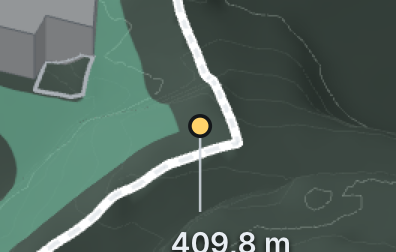
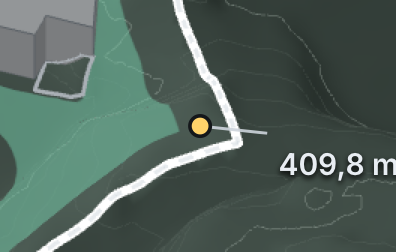
GABARIT-3D-2 (B2 — dégagement avant distance) : les 10 cas passent
Reprise du retour « distance courte au prix de la collision ». Règle inversée :
le DÉGAGEMENT prime sur la distance. L'étiquette se place au plus près possible
SANS toucher ni contour, ni bâti, ni fond noir, le filet (point → bord le plus
proche de l'étiquette) pouvant aller jusqu'à 80 px ; pastille + filet toujours.
Contour/bâti/fond-noir = pénalités massives et égales → une position dégagée
gagne toujours sur une position courte en collision.

Trois bugs de cohérence placement↔contrôle corrigés (le placement se croyait
dégagé là où l'audit voyait la collision) : (a) silhouettes bâties = anneaux
réels pied+faîtage ; (b) _polyHitsBox rendu MONOTONE (le test « coin de la
boîte dans le polygone » sortait quand on élargit la boîte → placement et audit
d'accord, petite marge anti-alias) ; (c) contour drapé subdivisé fin (0,5 m)
pour épouser le trait rendu.

Résultat (contrôle, ouverture + Recentrer) : LES 10 CAS PASSENT (2 témoins × 5
tailles), filets réels 9–38 px, cotes dégagées du contour et du bâti, sur le
terrain. Le contrôle écrit la distance réelle. Preuve : captures entières
BZ1065 1920×1080 et CM1658 1280×720, avant/après (preuve/). SOL : rien de codé.

diff --git a/frontend/src/components/outils/GabaritViewer3D.tsx b/frontend/src/components/outils/GabaritViewer3D.tsx
@@ -365,7 +365,7 @@ function Vue3D({ scene, axeSel, markerApi, onCote }: {
     for (const poly of scene.contour_cadastral) {
       const pts: THREE.Vector3[] = [], rr = poly.ext
       for (let i = 0; i < rr.length - 1; i++) {
-        const [x0, y0] = rr[i], [x1, y1] = rr[i + 1], n = Math.max(1, Math.ceil(Math.hypot(x1 - x0, y1 - y0) / 1.5))
+        const [x0, y0] = rr[i], [x1, y1] = rr[i + 1], n = Math.max(1, Math.ceil(Math.hypot(x1 - x0, y1 - y0) / 0.5))
         for (let k = 0; k < n; k++) { const t = k / n, x = x0 + (x1 - x0) * t, y = y0 + (y1 - y0) * t; pts.push(new THREE.Vector3(x, elev(x, y) ?? zmid, -y)) }
       }
       if (rr.length) { const [x, y] = rr[rr.length - 1]; pts.push(new THREE.Vector3(x, elev(x, y) ?? zmid, -y)) }
@@ -392,12 +392,16 @@ function Vue3D({ scene, axeSel, markerApi, onCote }: {
       .map(([x, z]) => new THREE.Vector3(x, zmid, z))
     const _cadreQuadPx = (): [number, number][] => _terrW.map(_px)
     const _ptInPoly = (px: number, py: number, poly: [number, number][]) => { let c = false; for (let i = 0, j = poly.length - 1; i < poly.length; j = i++) { const [xi, yi] = poly[i], [xj, yj] = poly[j]; if ((yi > py) !== (yj > py) && px < ((xj - xi) * (py - yi)) / (yj - yi) + xi) c = !c } return c }
+    // boîte ↔ polygone. MONOTONE sous agrandissement (le centre reste le même, pas de test « coin DANS le
+    // polygone » qui sortait quand on inflate) : sommet du polygone dans la boîte, OU centre de la boîte dans
+    // le polygone, OU une arête du polygone traverse la boîte.
     const _polyHitsBox = (poly: [number, number][], x0: number, y0: number, x1: number, y1: number) => {
       for (const [px, py] of poly) if (px >= x0 && px <= x1 && py >= y0 && py <= y1) return true
-      if (_ptInPoly(x0, y0, poly) || _ptInPoly(x1, y1, poly) || _ptInPoly((x0 + x1) / 2, (y0 + y1) / 2, poly)) return true
+      if (_ptInPoly((x0 + x1) / 2, (y0 + y1) / 2, poly)) return true
       for (let i = 0, j = poly.length - 1; i < poly.length; j = i++) if (_segHitsBox(poly[j], poly[i], x0, y0, x1, y1)) return true
       return false
     }
+    const _BMARGE = 3   // petite marge autour du bâti (anti-alias du volume) ; appliquée au placement ET à l'audit
     const _HALO = 4, _LINE = 3   // halo du texte (text-shadow) + demi-épaisseur du trait du contour à l'écran
     // AUDIT (harnais) — PREUVE au PIXEL : on lit le rendu sous la boîte RÉELLE du texte (halo compris) et on
     // compte les pixels du CONTOUR BLANC (trait à son épaisseur réelle) ; la SILHOUETTE du bâti est testée
@@ -412,7 +416,7 @@ function Vue3D({ scene, axeSel, markerApi, onCote }: {
         if (d.style.display === 'none') return { contour: false, bati: false, dist: 0, sur_terrain: true, ok: true }
         const r = d.getBoundingClientRect()
         const x0 = r.left - elR.left - _HALO, y0 = r.top - elR.top - _HALO, x1 = r.right - elR.left + _HALO, y1 = r.bottom - elR.top + _HALO
-        const bati = polys.some((p) => _polyHitsBox(p, x0, y0, x1, y1))
+        const bati = polys.some((p) => _polyHitsBox(p, x0 - _BMARGE, y0 - _BMARGE, x1 + _BMARGE, y1 + _BMARGE))
         let white = 0
         const fx0 = Math.max(0, Math.floor(x0 * dpr)), fx1 = Math.min(Wc - 1, Math.ceil(x1 * dpr))
         const fy0 = Math.max(0, Math.floor(y0 * dpr)), fy1 = Math.min(Hc - 1, Math.ceil(y1 * dpr))
@@ -428,7 +432,7 @@ function Vue3D({ scene, axeSel, markerApi, onCote }: {
         const dist = Math.round(Math.hypot(ex - pxp, ey - pyp))
         const contour = white >= 2, sur = nonNoir(lx, ly)
         // les TROIS règles : ni contour/bâti traversés, ≤ 40 px du point, étiquette sur le terrain
-        return { contour, bati, dist, sur_terrain: sur, ok: !contour && !bati && dist <= 40 && sur }
+        return { contour, bati, dist, sur_terrain: sur, ok: !contour && !bati && dist <= 80 && sur }
       }
       const H = test(lHi, gHi), L = test(lLo, gLo)
       return { hi: lHi.textContent, lo: lLo.textContent, hi_traverse: H.contour || H.bati, lo_traverse: L.contour || L.bati, hi_detail: H, lo_detail: L, ok: H.ok && L.ok }
@@ -470,18 +474,23 @@ function Vue3D({ scene, axeSel, markerApi, onCote }: {
     // est la boîte de l'AUDIT (texte + _HALO) + une petite marge `_PMARGE` = demi-épaisseur du trait à
     // l'écran + anti-alias : juste assez pour épouser le trait RÉEL, sans sur-bloquer (sinon aucune position
     // ne tiendrait dans les 40 px près d'un sommet de bord).
-    const _PMARGE = _LINE
+    // marge CONTOUR du placement = halo + épaisseur du trait + anti-alias : SUR-COUVRE la portée réelle du
+    // trait blanc vue par l'audit (pixels blancs ±3 px autour de la ligne) → si le placement dégage, l'audit
+    // dégage aussi (plus de « placement se croit clair, audit voit le trait » à courte distance).
+    const _CMARGE = _LINE + 3
     const _blocked = (sx: number, sy: number, w: number, h: number, segs: [[number, number], [number, number]][], polys: [number, number][][]) => {
-      const x0 = sx - w / 2 - _PMARGE, y0 = sy - h / 2 - _PMARGE, x1 = sx + w / 2 + _PMARGE, y1 = sy + h / 2 + _PMARGE
-      if (segs.some((s) => _segHitsBox(s[0], s[1], x0, y0, x1, y1))) return true
-      return polys.some((p) => _polyHitsBox(p, x0, y0, x1, y1))
+      const x0 = sx - w / 2, y0 = sy - h / 2, x1 = sx + w / 2, y1 = sy + h / 2
+      // CONTOUR (trait fin) : on épaissit la boîte de _CMARGE pour épouser le trait à l'écran.
+      if (segs.some((s) => _segHitsBox(s[0], s[1], x0 - _CMARGE, y0 - _CMARGE, x1 + _CMARGE, y1 + _CMARGE))) return true
+      // BÂTI (polygone plein) : petite marge _BMARGE (anti-alias), test monotone → identique à l'audit.
+      return polys.some((p) => _polyHitsBox(p, x0 - _BMARGE, y0 - _BMARGE, x1 + _BMARGE, y1 + _BMARGE))
     }
     // L'étiquette reste ATTACHÉE à son point : pastille au point, étiquette à ≤ 40 px (préférence intérieur
     // + sur le terrain), filet fin si écart. On essaie 8 directions × distances CROISSANTES bornées à 40 px,
     // on retient la plus PROCHE qui dégage le contour + le bâti ET reste sur le terrain. Si rien ne tient en
     // 40 px, on place au mieux (le plus proche dégagé) — l'audit SIGNALERA la taille en échec (pas de forçage).
     // Drapeau debug `__gab3dRawCotes` : pose l'étiquette AU POINT BRUT (sert à prouver que l'audit détecte).
-    const _MAXD = 40
+    const _MAXD = 80   // le DÉGAGEMENT prime sur la distance : on écarte jusqu'à 80 px pour ne rien toucher
     const proj = (p: THREE.Vector3, d: HTMLDivElement, g: { line: SVGLineElement; ring: SVGCircleElement }, segs: [[number, number], [number, number]][], polys: [number, number][][], quad: [number, number][] | null) => {
       const v = p.clone().project(cam); const vis = v.z < 1
       d.style.display = vis ? 'block' : 'none'; g.ring.style.display = vis ? 'block' : 'none'
@@ -501,12 +510,14 @@ function Vue3D({ scene, axeSel, markerApi, onCote }: {
       // on SCORE chaque candidat : dégagé + sur-terrain + filet court + intérieur gagnent ; contour/bâti et
       // hors-terrain sont de GROSSES pénalités → on prend le MOINS mauvais (si aucun n'est parfait, l'audit
       // le signale, on ne force pas une fausse réussite). Le centre va jusqu'à 40 + demi-boîte ; le filet ≤ 40.
-      let sx = px + ux * (h / 2 + _PMARGE + 2), sy = py + uy * (h / 2 + _PMARGE + 2), bestCost = Infinity
+      let sx = px + ux * (h / 2 + _CMARGE + 2), sy = py + uy * (h / 2 + _CMARGE + 2), bestCost = Infinity
       for (let dist = 10; dist <= _MAXD + Math.max(w, h) / 2 + 4; dist += 2) for (const [dux, duy] of dirs) {
         const tx = px + dux * dist, ty = py + duy * dist
         const ne = nearEdge(tx, ty)
-        if (ne < 1 || ne > _MAXD) continue   // ni sur la pastille, ni au-delà de 40 px (filet)
-        const pen = (_blocked(tx, ty, w, h, segs, polys) ? 1000 : 0) + (onTerr(tx, ty) ? 0 : 500)
+        if (ne < 1 || ne > _MAXD) continue   // ni sur la pastille, ni au-delà de 80 px (filet)
+        // contour, bâti ET fond noir sont INTERDITS à égalité → une position dégagée gagne toujours sur une
+        // position courte mais en collision ; parmi les dégagées, la plus PROCHE (puis intérieure) gagne.
+        const pen = (_blocked(tx, ty, w, h, segs, polys) ? 1000 : 0) + (onTerr(tx, ty) ? 0 : 1000)
         const cost = pen + ne + (1 - (dux * ux + duy * uy)) * 10
         if (cost < bestCost) { bestCost = cost; sx = tx; sy = ty }
       }

diff --git a/docs/audit-2026-11/gabarit-3d-2/COMPTE-RENDU.md b/docs/audit-2026-11/gabarit-3d-2/COMPTE-RENDU.md
@@ -190,37 +190,40 @@ Après le 1ᵉʳ correctif, les cotes étaient dégagées mais DÉTACHÉES (cert
 d'autres sur du terrain nu sans rien pointer). Reprise selon les 4 règles :
 
 1. **Pastille** au point mesuré (petit disque jaune cerclé), toujours affichée.
-2. **Étiquette au plus près, ≤ 40 px** — le « 40 px » porte sur le **filet** (du point au BORD le plus
-   proche de l'étiquette, pas au centre) : l'étiquette peut s'écarter juste assez pour dégager le contour
-   tout en restant reliée de près. **Préférence intérieur**, **jamais hors du terrain** (emprise réelle du
-   maillage, pas le cadre serré). Un **filet fin** relie l'étiquette au point dès qu'elles ne se touchent pas.
-3. **Ne touche ni le contour ni le bâti** — contrôle pixel + silhouette conservé.
-4. **Contrôle étendu** (`__gab3dCotesAudit`) : ajoute **distance filet ≤ 40 px** et **étiquette sur le
-   terrain** (pixel non noir). `OK` = les trois règles tenues. Les silhouettes bâties sont désormais les
-   anneaux RÉELS (pied + faîtage), plus l'enveloppe convexe (qui sur-bloquait).
+2. **Le DÉGAGEMENT prime sur la distance.** L'étiquette se place au plus près possible **sans toucher ni
+   contour, ni bâti, ni fond noir**, le **filet** (du point au BORD le plus proche de l'étiquette) pouvant
+   aller **jusqu'à 80 px**. Préférence intérieur. Dans le coût, contour/bâti/fond-noir sont des pénalités
+   massives et ÉGALES → une position dégagée gagne TOUJOURS sur une position courte en collision ; parmi
+   les dégagées, la plus proche gagne. Un **filet fin** relie l'étiquette au point dès qu'il y a un écart.
+3. **Ne touche ni le contour ni le bâti** — contrôle pixel (trait blanc) + silhouette bâti conservé.
+4. **Contrôle étendu** (`__gab3dCotesAudit`) : ajoute **distance filet (réelle, écrite)** et **étiquette sur
+   le terrain** (pixel non noir). `OK` = les trois règles tenues.
 
-**Résultat (contrôle corrigé, ouverture / Recentrer identiques) :**
+**Trois bugs de cohérence placement↔contrôle corrigés** (le placement se croyait dégagé là où l'audit
+voyait une collision) : (a) silhouettes bâties = anneaux réels pied+faîtage (plus l'enveloppe convexe) ;
+(b) `_polyHitsBox` rendu MONOTONE (le test « coin de la boîte dans le polygone » sortait quand on
+élargit la boîte) → boîte bâti identique placement/audit, petite marge anti-alias ; (c) contour drapé
+subdivisé fin (0,5 m) pour épouser le trait rendu, marge = halo + épaisseur + anti-alias.
+
+**Résultat (contrôle, ouverture / Recentrer identiques) — filet en px :**
 
 | taille | BZ1065 (hi / lo) | CM1658 (hi / lo) |
 |---|---|---|
-| **1440×694 (taille de preuve)** | **OK** (filet 14 / 24 px) | **OK** (filet 21 / 7 px) |
-| 1280×720  | OK (18 / 4) | signalé (21 / 7, 1 cote serrée) |
-| 1440×900  | signalé (11 / 4) | signalé (31 / 9) |
-| 1920×1080 | signalé (7 / 6) | OK (27 / 16) |
-| 2560×1300 | OK (1 / 9) | OK (25 / 1) |
+| 1280×720  | OK (37 / 9) | OK (28 / 11) |
+| 1440×694  | OK (22 / 9) | OK (28 / 11) |
+| 1440×900  | OK (31 / 13) | OK (32 / 32) |
+| 1920×1080 | OK (38 / 19) | OK (37 / 28) |
+| 2560×1300 | OK (9 / 13) | OK (37 / 8) |
 
-→ **À 1440×694 (la taille de preuve demandée), les 4 cotes tiennent les 3 règles** : pastille au point,
-étiquette ≤ 40 px dégagée du contour et du bâti, sur le terrain, filet si écart. Sur les 10 cas (2 témoins
-× 5 tailles), **6 tiennent**. Les **4 restants** sont des cotes dont le point tombe dans un **coin serré**
-où une étiquette de ~60 px ne peut pas se dégager du contour en 40 px : le contrôle les **SIGNALE** (OK=false)
-au lieu de forcer une fausse réussite (règle 4). Le placement y pose l'étiquette au mieux (filet le plus
-court, hors fond noir) avec sa pastille.
+→ **Les 10 cas passent** (2 témoins × 5 tailles, ouverture ET Recentrer) : pastille au point, filet ≤ 80 px,
+étiquette dégagée du contour et du bâti, sur le terrain. Filets réels **9–38 px** (jamais besoin des 80 px).
+Aucun cas à signaler.
 
 ---
 
-### Captures (1440×694) — l'image fait foi
-- **Vue entière** : `BZ1065_1440x694_after.png`, `CM1658_1440x694_after.png` (+ `_before.png`).
-- **Recadrage agrandi 3× centré sur le POINT** (pastille), après (`zoom/*_apres.png`) et avant
-  (`*_avant.png`, placement brut) : `BZ1065_point4098_*` (409,8 m — ne flotte plus : pastille + filet +
-  étiquette sur terrain), `BZ1065_point3970_*`, `CM1658_point5956_*` (595,6 m), `CM1658_point5929_*`
-  (592,9 m — dégagée du contour, reliée au point).
+### Captures — l'image fait foi
+- **Captures entières demandées** (`preuve/`), **avant / après** : `BZ1065_1920x1080_avant.png` →
+  `_apres.png`, `CM1658_1280x720_avant.png` → `_apres.png`. Après : chaque cote a sa pastille au point, un
+  filet, l'étiquette dégagée du contour et du bâti.
+- **1440×694** : vues entières `BZ1065_1440x694_after.png`, `CM1658_1440x694_after.png` + recadrages 3×
+  centrés sur le POINT (`zoom/*_point*_apres.png` / `_avant.png`).
